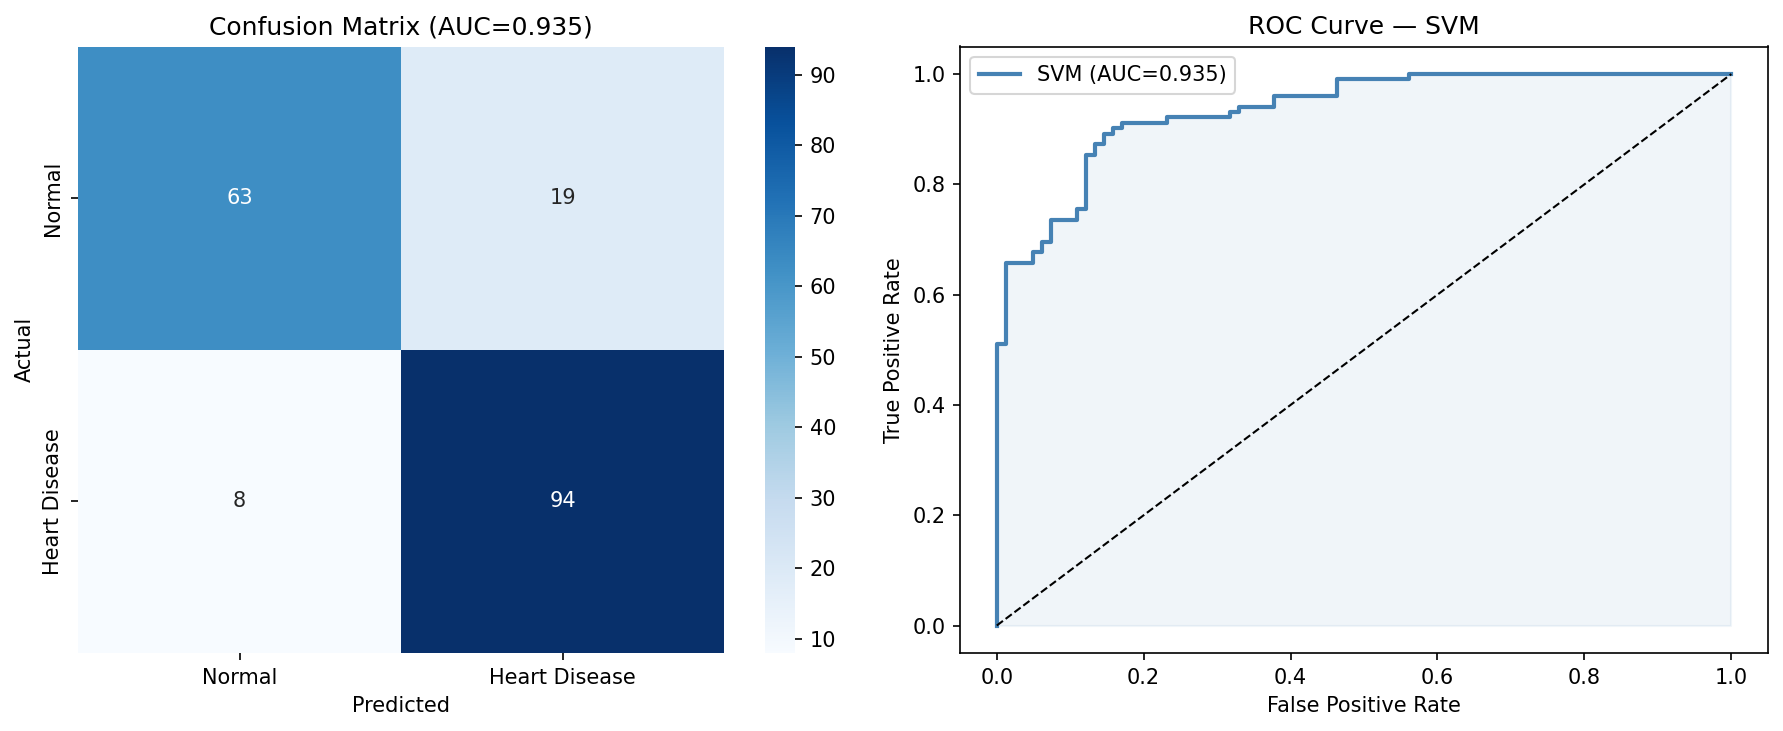
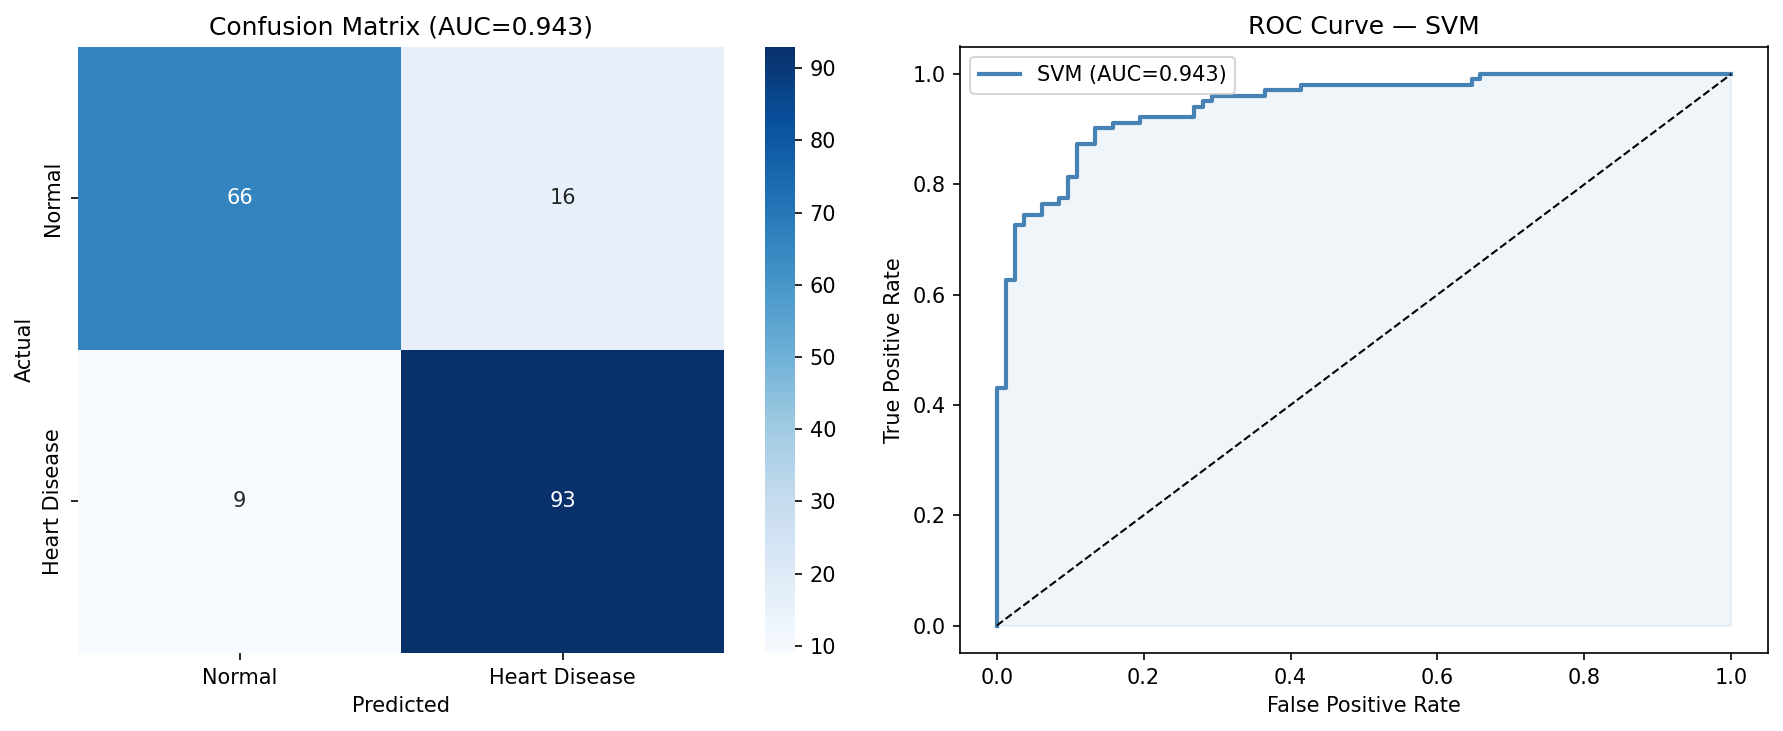
ganti di encoder

diff --git a/SVM_CardioVascular.py b/SVM_CardioVascular.py
@@ -32,9 +32,11 @@ print(f"Shape setelah cleansing: {df.shape}")
 
 """ ================= Pra-Proses Data =================  """
 
-# Encoding kategorikal — OrdinalEncoder lebih stabil dari LabelEncoder untuk DataFrame
-cat_cols = df.select_dtypes(include='object').columns.tolist()
-df[cat_cols] = OrdinalEncoder().fit_transform(df[cat_cols])
+# Encoding kategorikal —  One-Hot Encoding
+df = pd.get_dummies(df,
+     columns=['Sex','ChestPainType','RestingECG',
+              'ExerciseAngina','ST_Slope'],
+     drop_first=True)
 
 # Split fitur & target
 X = df.drop(columns='HeartDisease')